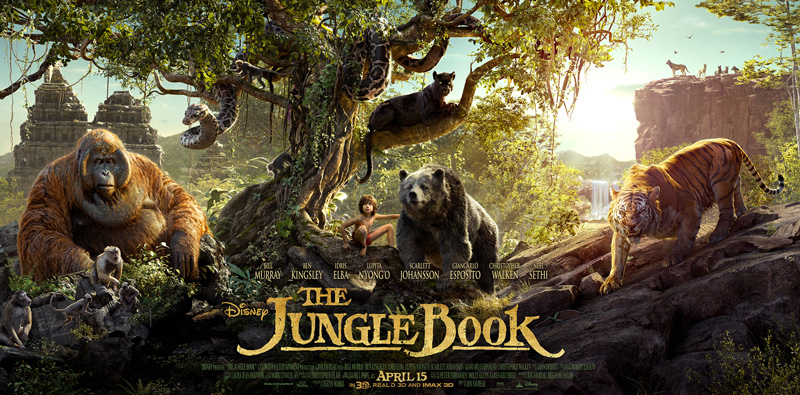
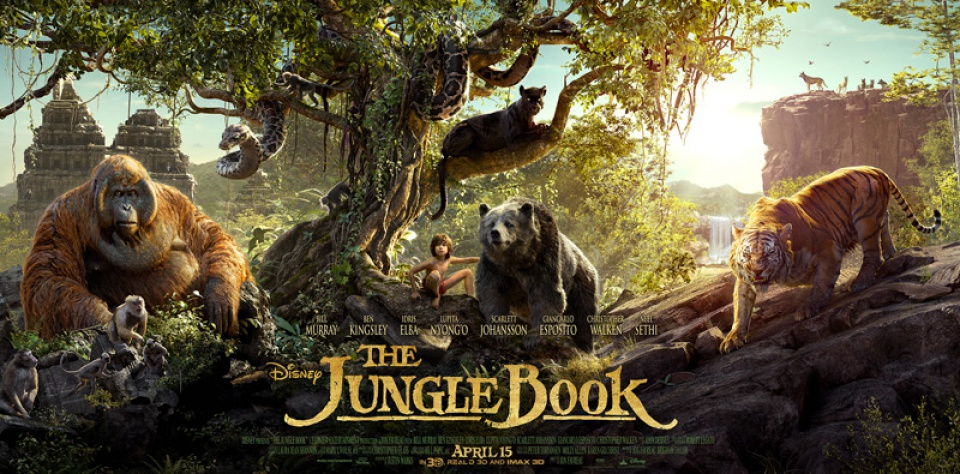
Managed to Get the uploads to resize.
I used the image manipulator class file to do it.

diff --git a/css/dropzone.css b/css/dropzone.css
@@ -209,8 +209,6 @@
       background: linear-gradient(to bottom, #eee, #ddd); }
     .dropzone .dz-preview.dz-file-preview .dz-details {
       opacity: 1; }
-    .dropzone .dz-preview.dz-image-preview {
-      background: white; }
       .dropzone .dz-preview.dz-image-preview .dz-details {
         -webkit-transition: opacity 0.2s linear;
         -moz-transition: opacity 0.2s linear;

diff --git a/ImageManipulator.php b/ImageManipulator.php
@@ -1,0 +1,279 @@
+<?php
+class ImageManipulator
+{
+    /**
+     * @var int
+     */
+    protected $width;
+
+    /**
+     * @var int
+     */
+    protected $height;
+
+    /**
+     * @var resource
+     */
+    protected $image;
+
+    /**
+     * Image manipulator constructor
+     * 
+     * @param string $file OPTIONAL Path to image file or image data as string
+     * @return void
+     */
+    public function __construct($file = null)
+    {
+        if (null !== $file) {
+            if (is_file($file)) {
+                $this->setImageFile($file);
+            } else {
+                $this->setImageString($file);
+            }
+        }
+    }
+
+    /**
+     * Set image resource from file
+     * 
+     * @param string $file Path to image file
+     * @return ImageManipulator for a fluent interface
+     * @throws InvalidArgumentException
+     */
+    public function setImageFile($file)
+    {
+        if (!(is_readable($file) && is_file($file))) {
+            throw new InvalidArgumentException("Image file $file is not readable");
+        }
+
+        if (is_resource($this->image)) {
+            imagedestroy($this->image);
+        }
+
+        list ($this->width, $this->height, $type) = getimagesize($file);
+
+        switch ($type) {
+            case IMAGETYPE_GIF  :
+                $this->image = imagecreatefromgif($file);
+                break;
+            case IMAGETYPE_JPEG :
+                $this->image = imagecreatefromjpeg($file);
+                break;
+            case IMAGETYPE_PNG  :
+                $this->image = imagecreatefrompng($file);
+                break;
+            default             :
+                throw new InvalidArgumentException("Image type $type not supported");
+        }
+
+        return $this;
+    }
+    
+    /**
+     * Set image resource from string data
+     * 
+     * @param string $data
+     * @return ImageManipulator for a fluent interface
+     * @throws RuntimeException
+     */
+    public function setImageString($data)
+    {
+        if (is_resource($this->image)) {
+            imagedestroy($this->image);
+        }
+
+        if (!$this->image = imagecreatefromstring($data)) {
+            throw new RuntimeException('Cannot create image from data string');
+        }
+        $this->width = imagesx($this->image);
+        $this->height = imagesy($this->image);
+        return $this;
+    }
+
+    /**
+     * Resamples the current image
+     *
+     * @param int  $width                New width
+     * @param int  $height               New height
+     * @param bool $constrainProportions Constrain current image proportions when resizing
+     * @return ImageManipulator for a fluent interface
+     * @throws RuntimeException
+     */
+    public function resample($width, $height, $constrainProportions = true)
+    {
+        if (!is_resource($this->image)) {
+            throw new RuntimeException('No image set');
+        }
+        if ($constrainProportions) {
+            if ($this->height >= $this->width) {
+                $width  = round($height / $this->height * $this->width);
+            } else {
+                $height = round($width / $this->width * $this->height);
+            }
+        }
+        $temp = imagecreatetruecolor($width, $height);
+        imagecopyresampled($temp, $this->image, 0, 0, 0, 0, $width, $height, $this->width, $this->height);
+        return $this->_replace($temp);
+    }
+    
+    /**
+     * Enlarge canvas
+     * 
+     * @param int   $width  Canvas width
+     * @param int   $height Canvas height
+     * @param array $rgb    RGB colour values
+     * @param int   $xpos   X-Position of image in new canvas, null for centre
+     * @param int   $ypos   Y-Position of image in new canvas, null for centre
+     * @return ImageManipulator for a fluent interface
+     * @throws RuntimeException
+     */
+    public function enlargeCanvas($width, $height, array $rgb = array(), $xpos = null, $ypos = null)
+    {
+        if (!is_resource($this->image)) {
+            throw new RuntimeException('No image set');
+        }
+        
+        $width = max($width, $this->width);
+        $height = max($height, $this->height);
+        
+        $temp = imagecreatetruecolor($width, $height);
+        if (count($rgb) == 3) {
+            $bg = imagecolorallocate($temp, $rgb[0], $rgb[1], $rgb[2]);
+            imagefill($temp, 0, 0, $bg);
+        }
+        
+        if (null === $xpos) {
+            $xpos = round(($width - $this->width) / 2);
+        }
+        if (null === $ypos) {
+            $ypos = round(($height - $this->height) / 2);
+        }
+        
+        imagecopy($temp, $this->image, (int) $xpos, (int) $ypos, 0, 0, $this->width, $this->height);
+        return $this->_replace($temp);
+    }
+    
+    /**
+     * Crop image
+     * 
+     * @param int|array $x1 Top left x-coordinate of crop box or array of coordinates
+     * @param int       $y1 Top left y-coordinate of crop box
+     * @param int       $x2 Bottom right x-coordinate of crop box
+     * @param int       $y2 Bottom right y-coordinate of crop box
+     * @return ImageManipulator for a fluent interface
+     * @throws RuntimeException
+     */
+    public function crop($x1, $y1 = 0, $x2 = 0, $y2 = 0)
+    {
+        if (!is_resource($this->image)) {
+            throw new RuntimeException('No image set');
+        }
+        if (is_array($x1) && 4 == count($x1)) {
+            list($x1, $y1, $x2, $y2) = $x1;
+        }
+        
+        $x1 = max($x1, 0);
+        $y1 = max($y1, 0);
+        
+        $x2 = min($x2, $this->width);
+        $y2 = min($y2, $this->height);
+        
+        $width = $x2 - $x1;
+        $height = $y2 - $y1;
+        
+        $temp = imagecreatetruecolor($width, $height);
+        imagecopy($temp, $this->image, 0, 0, $x1, $y1, $width, $height);
+        
+        return $this->_replace($temp);
+    }
+    
+    /**
+     * Replace current image resource with a new one
+     * 
+     * @param resource $res New image resource
+     * @return ImageManipulator for a fluent interface
+     * @throws UnexpectedValueException
+     */
+    protected function _replace($res)
+    {
+        if (!is_resource($res)) {
+            throw new UnexpectedValueException('Invalid resource');
+        }
+        if (is_resource($this->image)) {
+            imagedestroy($this->image);
+        }
+        $this->image = $res;
+        $this->width = imagesx($res);
+        $this->height = imagesy($res);
+        return $this;
+    }
+    
+    /**
+     * Save current image to file
+     * 
+     * @param string $fileName
+     * @return void
+     * @throws RuntimeException
+     */
+    public function save($fileName, $type = IMAGETYPE_JPEG)
+    {
+        $dir = dirname($fileName);
+        if (!is_dir($dir)) {
+            if (!mkdir($dir, 0755, true)) {
+                throw new RuntimeException('Error creating directory ' . $dir);
+            }
+        }
+        
+        try {
+            switch ($type) {
+                case IMAGETYPE_GIF  :
+                    if (!imagegif($this->image, $fileName)) {
+                        throw new RuntimeException;
+                    }
+                    break;
+                case IMAGETYPE_PNG  :
+                    if (!imagepng($this->image, $fileName)) {
+                        throw new RuntimeException;
+                    }
+                    break;
+                case IMAGETYPE_JPEG :
+                default             :
+                    if (!imagejpeg($this->image, $fileName, 95)) {
+                        throw new RuntimeException;
+                    }
+            }
+        } catch (Exception $ex) {
+            throw new RuntimeException('Error saving image file to ' . $fileName);
+        }
+    }
+
+    /**
+     * Returns the GD image resource
+     *
+     * @return resource
+     */
+    public function getResource()
+    {
+        return $this->image;
+    }
+
+    /**
+     * Get current image resource width
+     *
+     * @return int
+     */
+    public function getWidth()
+    {
+        return $this->width;
+    }
+
+    /**
+     * Get current image height
+     *
+     * @return int
+     */
+    public function getHeight()
+    {
+        return $this->height;
+    }
+}

diff --git a/uploader.php b/uploader.php
@@ -1,32 +1,38 @@
 <?php 
 
-$ds = DIRECTORY_SEPARATOR;
+require_once('ImageManipulator.php');
 
 $id = $_SESSION['id'];
 
 $user_directory = 'uploads/'.$id;
-
+// If the file is sent, create a directory with the users' ID. //
 if (isset($_FILES['file']['name'])) { 
+
 	$image_name = $_FILES['file']['name'];}
 
-if (!file_exists($user_directory)) {
+if (!file_exists($user_directory)) { 
 
     mkdir($user_directory, 0777, true);
 }
- 
+// If a file is sent, check that it's an image. //
 if (!empty($_FILES)) {
      
     $tempFile = $_FILES['file']['tmp_name'];
-      
-    $targetPath = dirname( __FILE__ ) . $ds. $user_directory . $ds;
-     
-    $targetFile =  $targetPath. $_FILES['file']['name'];
- 
-    move_uploaded_file($tempFile,$targetFile);
 
-if (isset($_FILES['file']['name'])) {
-   $upload_file_path = 'uploads/'.$id.'/'.$_FILES['file']['name'];
-      json_encode($upload_file_path);
-}}
+    $validExtensions = array('.jpg', '.jpeg', '.gif', '.png');
+
+    $fileExtension = strrchr($_FILES['file']['name'], ".");
+
+    if (in_array($fileExtension, $validExtensions)) {
+// Call the ImageManipulator and set height/width to 960*540px. //    	
+        $manipulator = new ImageManipulator($_FILES['file']['tmp_name']);
+
+        $newImage = $manipulator->resample(960, 540);
+// Save the edited image to the users' folder. //
+        $manipulator->save('uploads/' . $id . '/' . $image_name . $_FILES['fileToUpload']['name']);
+
+    }   
+
+}
 
 ?>

diff --git a/newfilm.php b/newfilm.php
@@ -98,8 +98,14 @@
 		// dropzone function
 		Dropzone.autoDiscover = false;
 	    $("#upload").dropzone({
+	    	acceptedFiles: "image/jpeg",
 	        url: "editfilm.php",
+	        maxFiles: 1, // Number of files at a time
+			maxFilesize: 1, //in MB
 	        addRemoveLinks: true,
+	        maxfilesexceeded: function(file) {
+				alert('You have uploaded more than 1 Image. Only the first file will be uploaded!');
+			},
 	        success: function (file, response) {
 	            var file_name = file['name'];
 	            file.previewElement.classList.add("dz-success");
@@ -110,10 +116,15 @@
 	        error: function (file, response) {
 	            file.previewElement.classList.add("dz-error");
 	            console.log('error')
-	        }
+	        },
+	        init: function() {
+   				this.on("addedfile", function() {
+     				if (this.files[1]!=null){
+       					this.removeFile(this.files[0]);
+     				}
+   				});
+ 			}
 	    });
-
-		
 
 
 
@@ -270,9 +281,6 @@
 				}
 			});
 		});
-
-
-
 	</script>
 
 	<?php include('footer.php') ?>
